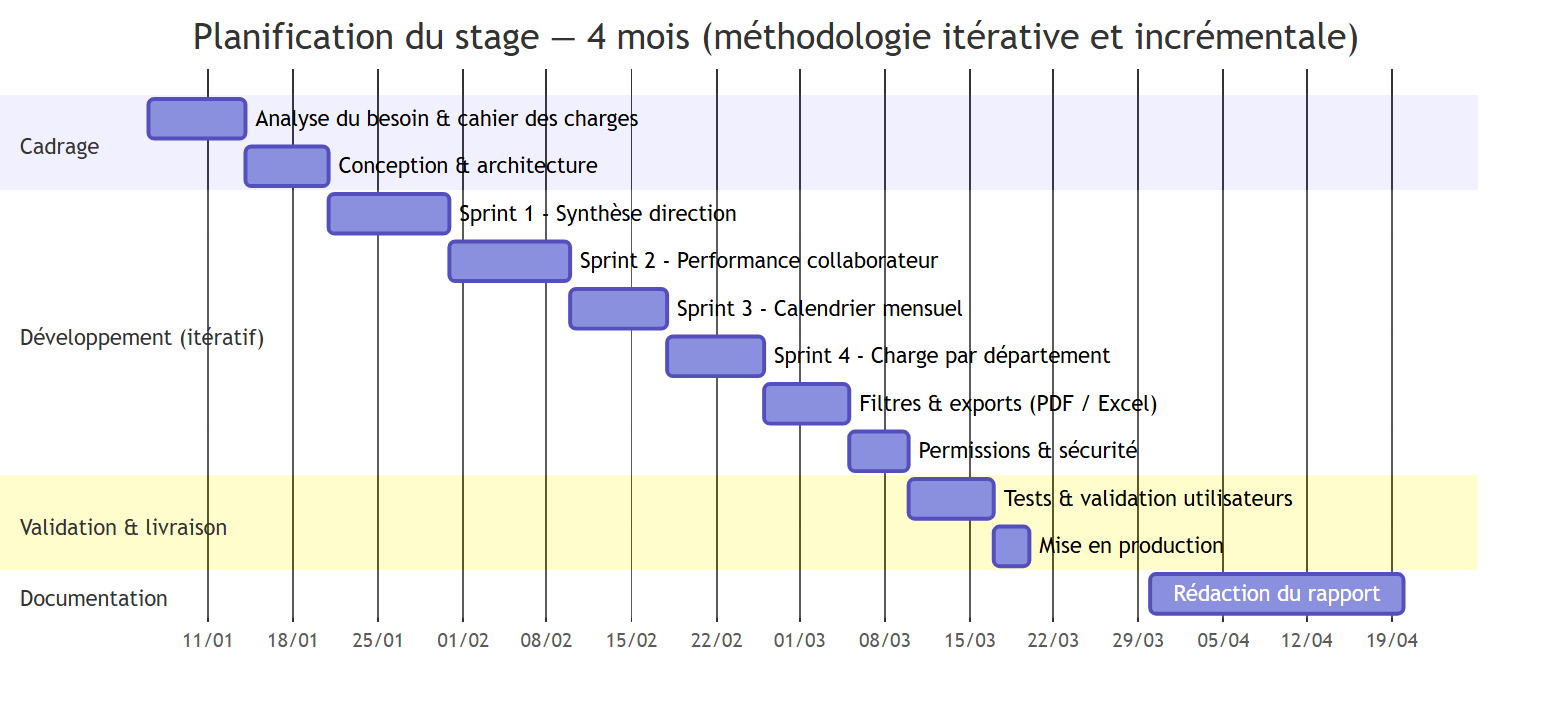
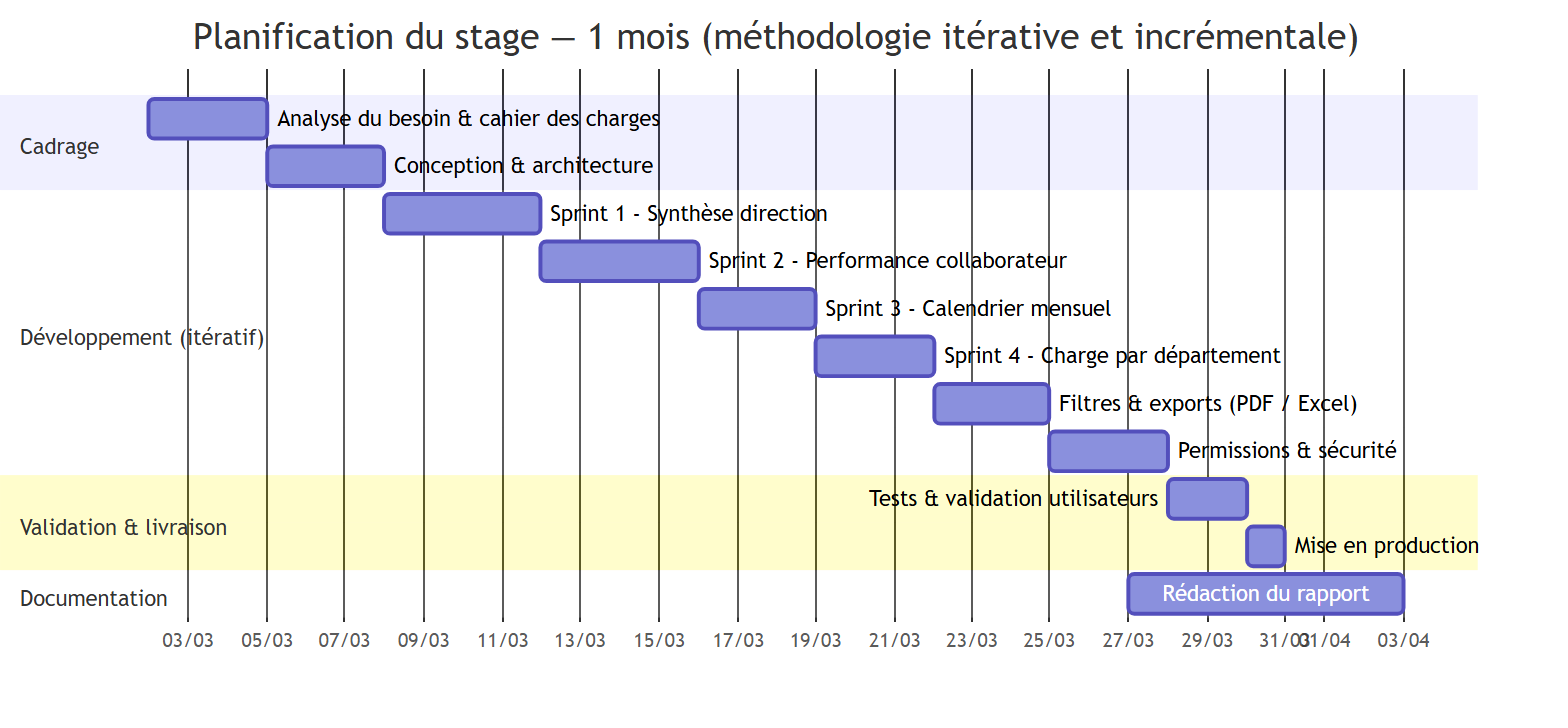
Rapport de stage : durée ramenée à 1 mois (1er mars – 1er avril 2026)
Période, mentions de durée (résumé/abstract/intro/conclusion) et diagramme
de Gantt mis à jour pour un stage d'un mois, du début mars au début avril.

Changed region(s): [[0.1562, 0.1209, 0.9375, 0.9066], [0.0938, 0.8462, 0.6875, 0.9066], [0.375, 0.0302, 0.4062, 0.0604]]

diff --git a/docs/RAPPORT-STAGE.md b/docs/RAPPORT-STAGE.md
@@ -55,7 +55,7 @@ css: |
 <p class="infos">
 <strong>Réalisé par&nbsp;:</strong> &nbsp;Youssef EL WAFI<br/>
 <strong>Entreprise d'accueil&nbsp;:</strong> &nbsp;MSINVEST<br/>
-<strong>Période du stage&nbsp;:</strong> &nbsp;Janvier 2026 – Avril 2026<br/>
+<strong>Période du stage&nbsp;:</strong> &nbsp;Du 1er mars au 1er avril 2026<br/>
 <strong>Encadrant entreprise&nbsp;:</strong> &nbsp;M. Larbi ELHABTI<br/>
 <strong>Encadrant pédagogique&nbsp;:</strong> &nbsp;…………………………………<br/>
 <strong>Établissement&nbsp;:</strong> &nbsp;OFPPT – ISTA, Casablanca
@@ -104,7 +104,7 @@ nécessaires.
 
 ## Résumé
 
-Ce rapport présente le travail réalisé durant un stage de **quatre mois** au sein de **MSINVEST**,
+Ce rapport présente le travail réalisé durant un stage d'**un mois** au sein de **MSINVEST**,
 consacré à la **conception et au développement d'un tableau de bord analytique des indicateurs de
 performance (KPI) des collaborateurs**.
 
@@ -121,7 +121,7 @@ analyse de productivité, TCPDF.
 
 ### Abstract
 
-This report presents the work carried out during a **four-month internship** at **MSINVEST**,
+This report presents the work carried out during a **one-month internship** at **MSINVEST**,
 dedicated to the **design and development of an analytical dashboard for employees' key
 performance indicators (KPI)**. The module centralizes operational and HR data (attendance,
 productivity, workload, processed cases) within a single interface accessible to management and the
@@ -151,7 +151,7 @@ analysis, TCPDF.
 | N° | Figure |
 | -- | ------ |
 | Figure 1 | Diagramme de cas d'utilisation du module KPI |
-| Figure 2 | Diagramme de Gantt — planification du stage (4 mois) |
+| Figure 2 | Diagramme de Gantt — planification du stage (1 mois) |
 | Figure 3 | Architecture technique du module (MVC / HMVC) |
 
 ### Liste des abréviations
@@ -192,7 +192,7 @@ C'est dans ce contexte que **MSINVEST** a souhaité se doter d'un **tableau de b
 unique**, accessible aux décideurs, capable d'afficher en temps réel les indicateurs clés de chaque
 collaborateur — présence, retards, charge de travail, dossiers traités, heures supplémentaires.
 
-Le stage, d'une durée de **quatre mois**, avait pour mission la conception, le développement et la
+Le stage, d'une durée d'**un mois**, avait pour mission la conception, le développement et la
 mise en production de ce module d'analyse, intégré à la plateforme interne de l'entreprise.
 
 Ce rapport retrace la démarche suivie tout au long du projet. Le **chapitre 1** présente l'organisme
@@ -292,13 +292,13 @@ La méthodologie suivie est **itérative et incrémentale**. Chaque indicateur a
 le cycle : étude du besoin, prototypage rapide, démonstration, recueil du retour, ajustement, mise
 en production, suivi. Cette approche a permis de livrer de la valeur dès les premières semaines.
 
-Le projet a été conduit **sur une durée de quatre mois** (de janvier à avril 2026). Le diagramme de
+Le projet a été conduit **sur une durée d'un mois** (du 1er mars au 1er avril 2026). Le diagramme de
 Gantt ci-dessous en présente l'ordonnancement, du cadrage jusqu'à la mise en production et à la
 rédaction du rapport.
 
 <figure class="fig">
 <img src="images/stage-gantt.png" alt="Diagramme de Gantt" />
-<p class="cap">Figure 2 — Diagramme de Gantt — planification du stage (4 mois)</p>
+<p class="cap">Figure 2 — Diagramme de Gantt — planification du stage (1 mois)</p>
 </figure>
 
 <div class="page-break"></div>
@@ -458,7 +458,7 @@ allégée. Toutes les actions sont **journalisées** (qui a consulté quel rappo
 
 ## Conclusion générale et perspectives
 
-Ce stage de quatre mois au sein de **MSINVEST** a été l'occasion de conduire un projet logiciel **de
+Ce stage d'un mois au sein de **MSINVEST** a été l'occasion de conduire un projet logiciel **de
 bout en bout** : analyse du besoin, conception technique, implémentation, intégration, tests
 utilisateurs et mise en production.
 